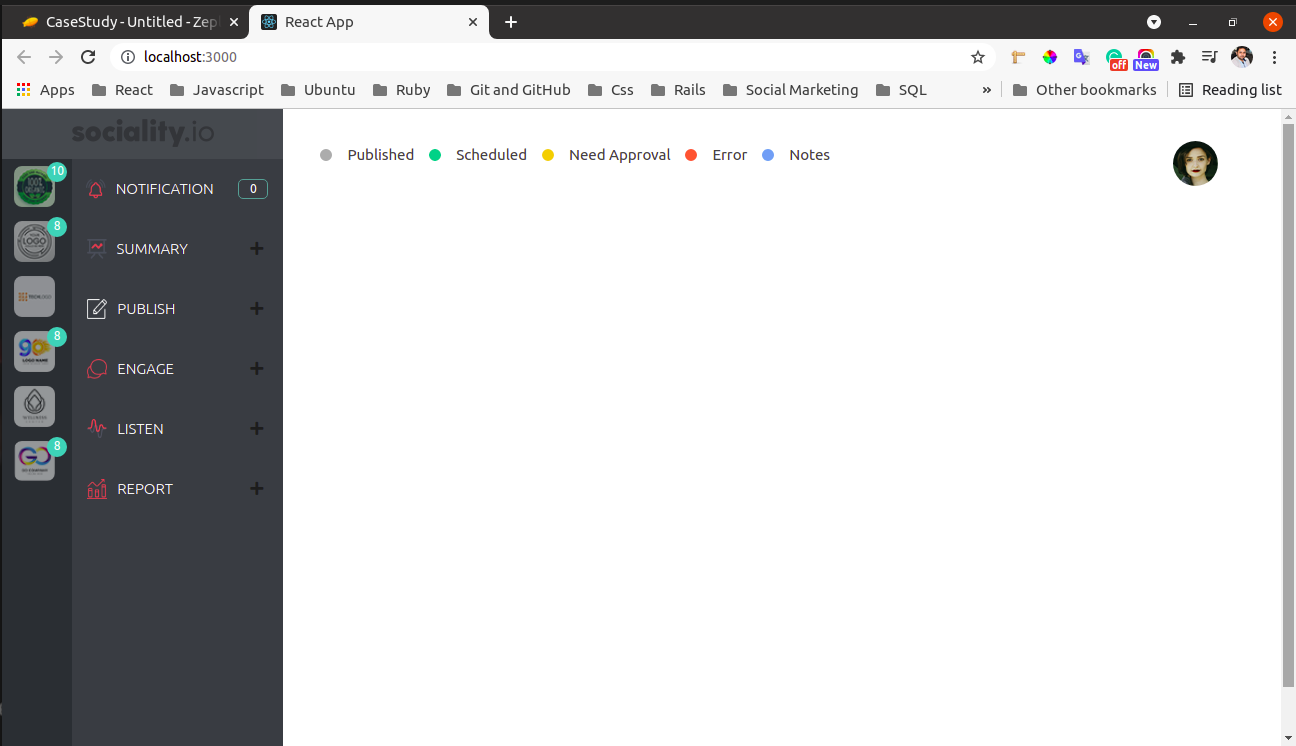
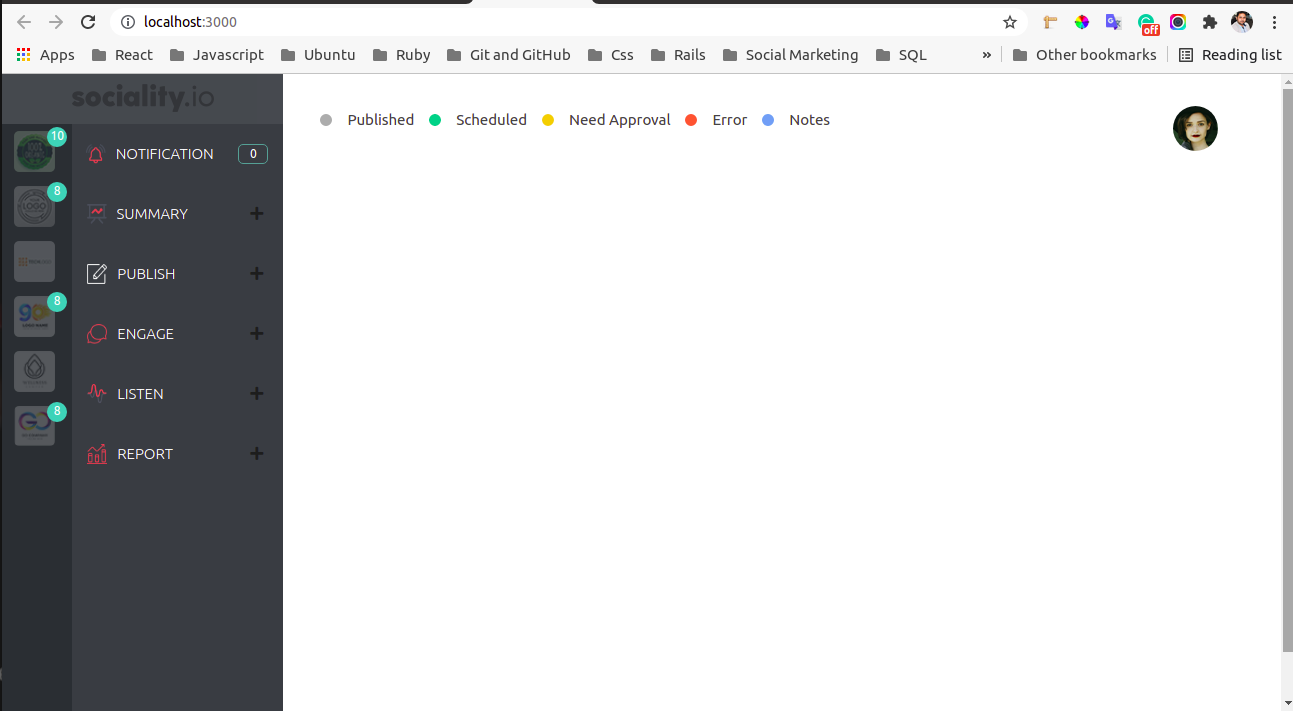
Refactor in handleta click function

Changed region(s): [[0.0, 0.0, 1.0, 0.9283], [0.1856, 0.4641, 0.2166, 0.4951]]

diff --git a/src/components/SwitchingTabs/Switchingtab.js b/src/components/SwitchingTabs/Switchingtab.js
@@ -16,35 +16,35 @@ class Switchingtabs extends Component {
       tabs: [
         {
           id: 1,
-          name: '',
+          name: 'Test One',
           logo: logoOne,
           not: 10,
           clicked: false,
         },
         {
           id: 2,
-          name: 'Test',
+          name: 'Test Two',
           logo: logoTwo,
           not: 8,
           clicked: false,
         },
         {
           id: 3,
-          name: '',
+          name: 'Test Three',
           logo: logoThree,
           not: 0,
           clicked: false,
         },
         {
           id: 4,
-          name: '',
+          name: 'Test Four',
           logo: logoFour,
           not: 8,
           clicked: false,
         },
         {
           id: 5,
-          name: '',
+          name: 'Test Five',
           logo: logoFive,
           not: 0,
           clicked: false,
@@ -82,33 +82,30 @@ class Switchingtabs extends Component {
         });
       });
       // Connect Data with its publish date to update the dates in the state of layout:
-      const datesArr = [];
+      const dates = new Set();
       newData.forEach((post) => {
         const publishArr = post.published_at.split(' ').splice(0, 1).toString();
-        datesArr.push(publishArr);
+        dates.add(publishArr);
       });
-
-      // Remove repeated dates:
-      const finalDateArr = [];
-      for (let i = 0; i < datesArr.length; i += 1) {
-        if (finalDateArr.indexOf(datesArr[i]) === -1) {
-          finalDateArr.push(datesArr[i]);
-        }
-      }
+      // convert Set object to an Array
+      const datesArr = Array.from(dates);
 
       // Pass data with its dates to the layout state:
       const { clickedTab } = this.props;
-      clickedTab(newData, finalDateArr);
+      clickedTab(newData, datesArr);
+
+      // Style:
+      this.handleTabStyle(name);
     }
 
-    handleTabStyle = (id) => {
+    handleTabStyle = (name) => {
       const { tabs } = this.state;
       const { handleNot } = this.props;
-      const selectedTab = tabs.find((tab) => tab.id === id);
+      const selectedTab = tabs.find((tab) => tab.name === name);
       handleNot(selectedTab.not);
       selectedTab.clicked = !selectedTab.clicked;
       selectedTab.not = 0;
-      const otherTabs = tabs.filter((tab) => tab.id !== id);
+      const otherTabs = tabs.filter((tab) => tab.name !== name);
       otherTabs.forEach((tab) => {
         const oTabs = tab;
         oTabs.clicked = false;
@@ -121,12 +118,10 @@ class Switchingtabs extends Component {
       const renderTabs = tabs.map((tab) => (
         <Tab
           key={tab.id}
-          id={tab.id}
           logo={tab.logo}
           name={tab.name}
           notifictaion={tab.not}
           isClicked={tab.clicked}
-          tabStyle={this.handleTabStyle}
           tabClick={this.handleTabClick}
         />
       ));

diff --git a/src/components/Accordion/AccordionItem.js b/src/components/Accordion/AccordionItem.js
@@ -1,47 +1,43 @@
 /* eslint-disable  react/no-access-state-in-setstate */
 /* eslint-disable react/no-unused-prop-types */
-/* eslint-disable */
 import React, { Component } from 'react';
-import List from './List';
 import PropTypes from 'prop-types';
+import List from './List';
 import './AccordionItem.css';
 
 class AccordionItem extends Component {
-  constructor(props){
+  constructor(props) {
     super(props);
-    this.state = {list: []}
+    this.state = { list: [] };
   }
+
     handleClick = () => {
-      this.setState({list: [...this.props.list]})
-      const { handleClick, title } = this.props;
+      const { handleClick, title, list } = this.props;
+      this.setState({ list: [...list] });
       handleClick(title);
     }
 
-    handleListClick = (id)=>{
+    handleListClick = (id) => {
       const { list } = this.state;
-      const selectedItem = list.find(item => item.id === id);
+      const selectedItem = list.find((item) => item.id === id);
       selectedItem.clicked = !selectedItem.clicked;
       const otherItems = list.filter((Item) => Item.id !== id);
       otherItems.forEach((Items) => {
         const otherItem = Items;
         otherItem.clicked = false;
       });
-      this.setState({list: [...list]})
+      this.setState({ list: [...list] });
     }
-
-    
 
     render() {
       const {
-        isClicked , icon, title,
+        isClicked, icon, title,
       } = this.props;
       const { list } = this.state;
       const ItemClickedStyle = isClicked ? 'AccordionItem-clicked-style' : '';
       const ItemClicked = isClicked ? <i className="fas fa-minus" /> : <i className="fas fa-plus" />;
       const ulShowHide = isClicked && list.length !== 0 ? 'AccordionItem-list-show' : 'AccordionItem-list-hide';
-      const ulText = list ? list.map((item) => 
-         <List key={item.id} id={item.id} name={item.name} clicked={item.clicked} handleListClick={this.handleListClick}/>
-      ) : '';
+      const ulText = list ? list.map((item) => <List key={item.id} id={item.id} name={item.name} clicked={item.clicked} handleListClick={this.handleListClick} />) : '';
       return (
         <div
           className="AccordionItem"

diff --git a/src/components/SwitchingTabs/Tab.js b/src/components/SwitchingTabs/Tab.js
@@ -13,10 +13,9 @@ class Tab extends Component {
 
     handleClick = () => {
       const {
-        tabClick, tabStyle, name, id,
+        tabClick, name,
       } = this.props;
       tabClick(name);
-      tabStyle(id);
     }
 
     render() {
@@ -47,21 +46,17 @@ class Tab extends Component {
 
 Tab.defaultProps = {
   logo,
-  id: 0,
   name: '',
   notifictaion: 0,
   isClicked: false,
-  tabStyle: () => {},
   tabClick: () => {},
 };
 
 Tab.propTypes = {
-  id: PropTypes.number,
   logo: PropTypes.string,
   name: PropTypes.string,
   notifictaion: PropTypes.number,
   isClicked: PropTypes.bool,
-  tabStyle: PropTypes.func,
   tabClick: PropTypes.func,
 };
 

diff --git a/src/components/SwitchingTabs/Tab.css b/src/components/SwitchingTabs/Tab.css
@@ -13,7 +13,7 @@
 .Tabs-img img {
   margin-right: 10px;
   width: 45px;
-  border-radius: 10px;
+  border-radius: 7px;
   padding: 2px;
   cursor: pointer;
   background-position: center;
@@ -26,16 +26,16 @@
 }
 
 .Tabs-notCliked {
-  opacity: 0.5;
+  opacity: 0.2;
 }
 
 /* Hidden Div */
 .Tabs-hidden {
   background-color: #f55661;
   width: 5px;
-  border-bottom-right-radius: 20px;
-  border-top-right-radius: 20px;
-  margin: 7.5px 0 7.5px 0;
+  border-bottom-right-radius: 5px;
+  border-top-right-radius: 5px;
+  margin: 7px 0;
 }
 
 .Tabs-div-show {

diff --git a/README.md b/README.md
@@ -18,19 +18,19 @@
 - User logo.
 
 # Entry screen:
-![screenshot](src/assests/imgs/home-app.png) 
+![screenshot](src/assets/imgs/home-app.png) 
 
 # Rednering posts:
 1. 
-![screenshot](src/assests/imgs/render-posts.png) 
+![screenshot](src/assets/imgs/render-posts.png) 
 
 2.
-![screenshot](src/assests/imgs/no-img.png) 
+![screenshot](src/assets/imgs/no-img.png) 
 
 # Notification number:
 The notfication of each tab will show on the specified place in the notification button.
 
-![screenshot](src/assests/imgs/notification-number.png) 
+![screenshot](src/assets/imgs/notification-number.png) 
 
 
 
@@ -68,12 +68,12 @@ npm start
 # Notes:
 - I followed the design:
 
-![screenshot](src/assests/imgs/design.png) 
+![screenshot](src/assets/imgs/design.png) 
 - I assume that this platform is working on laptops and tablets screen sizes, so I adjust style for some important parts in the desing according to these screen sizes, and it is not responsive for other sizes. 
 1. Laptop:
-![screenshot](src/assests/imgs/res-laptop.png) 7
+![screenshot](src/assets/imgs/res-laptop.png) 7
 2. Tablet:
-![screenshot](src/assests/imgs/res-tab.png) 
+![screenshot](src/assets/imgs/res-tab.png) 
 
 
 
